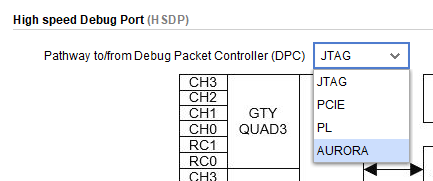
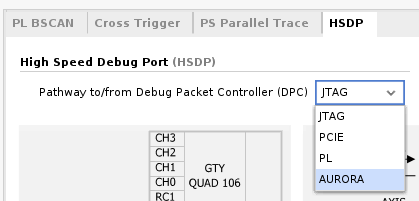
Main CIPS 3.0 screencap updates and changes to flow slightly to support C3.0

Changed region(s): [[0.031, 0.221, 1.0, 1.0], [0.0, 0.0276, 1.0, 0.1657]]

diff --git a/docs/Introduction/Versal-EDT/docs/6-system-design-example-HSDP.md b/docs/Introduction/Versal-EDT/docs/6-system-design-example-HSDP.md
@@ -22,7 +22,7 @@ This design uses the project built in [System Design Example using Scalar Engine
 
     ![](./media/image5.png)
 
-3. Double-click the Versal ACAP CIPS IP core and click **Debug → Debug Configuration**.
+3. Double-click the Versal ACAP CIPS IP core to recustomize the IP.  Click the **Next** button and click on the blue box labeled **PS PMC** to customize the Processing System (PS) and the Platform Management Controller (PMC).  On the left pane, select  click **Debug** then click on the **HSDP** tab.
     ![](./media/ch6-image1.png)
 
 4. Under **High-Speed Debug Port (HSDP)**, select **AURORA** as the **Pathway to/from Debug Packet Controller (DPC)**.
@@ -171,7 +171,7 @@ The design package included with this tutorial contains a script that downloads 
 3. At the Vivado tcl shell, issue the following command to download the images using HSDP:
 
     ```
-    xsdb Linux_download.tcl <smartlynq+ ip> images/Linux HSDP
+    xsdb linux_download.tcl <smartlynq+ ip> images/Linux HSDP
     ```
 
     This loads `BOOT.BIN` using JTAG, following which an HSDP link is auto-negotiated and the rest of the boot images are loaded using HSDP. This increases the speed substantially compared to JTAG.
